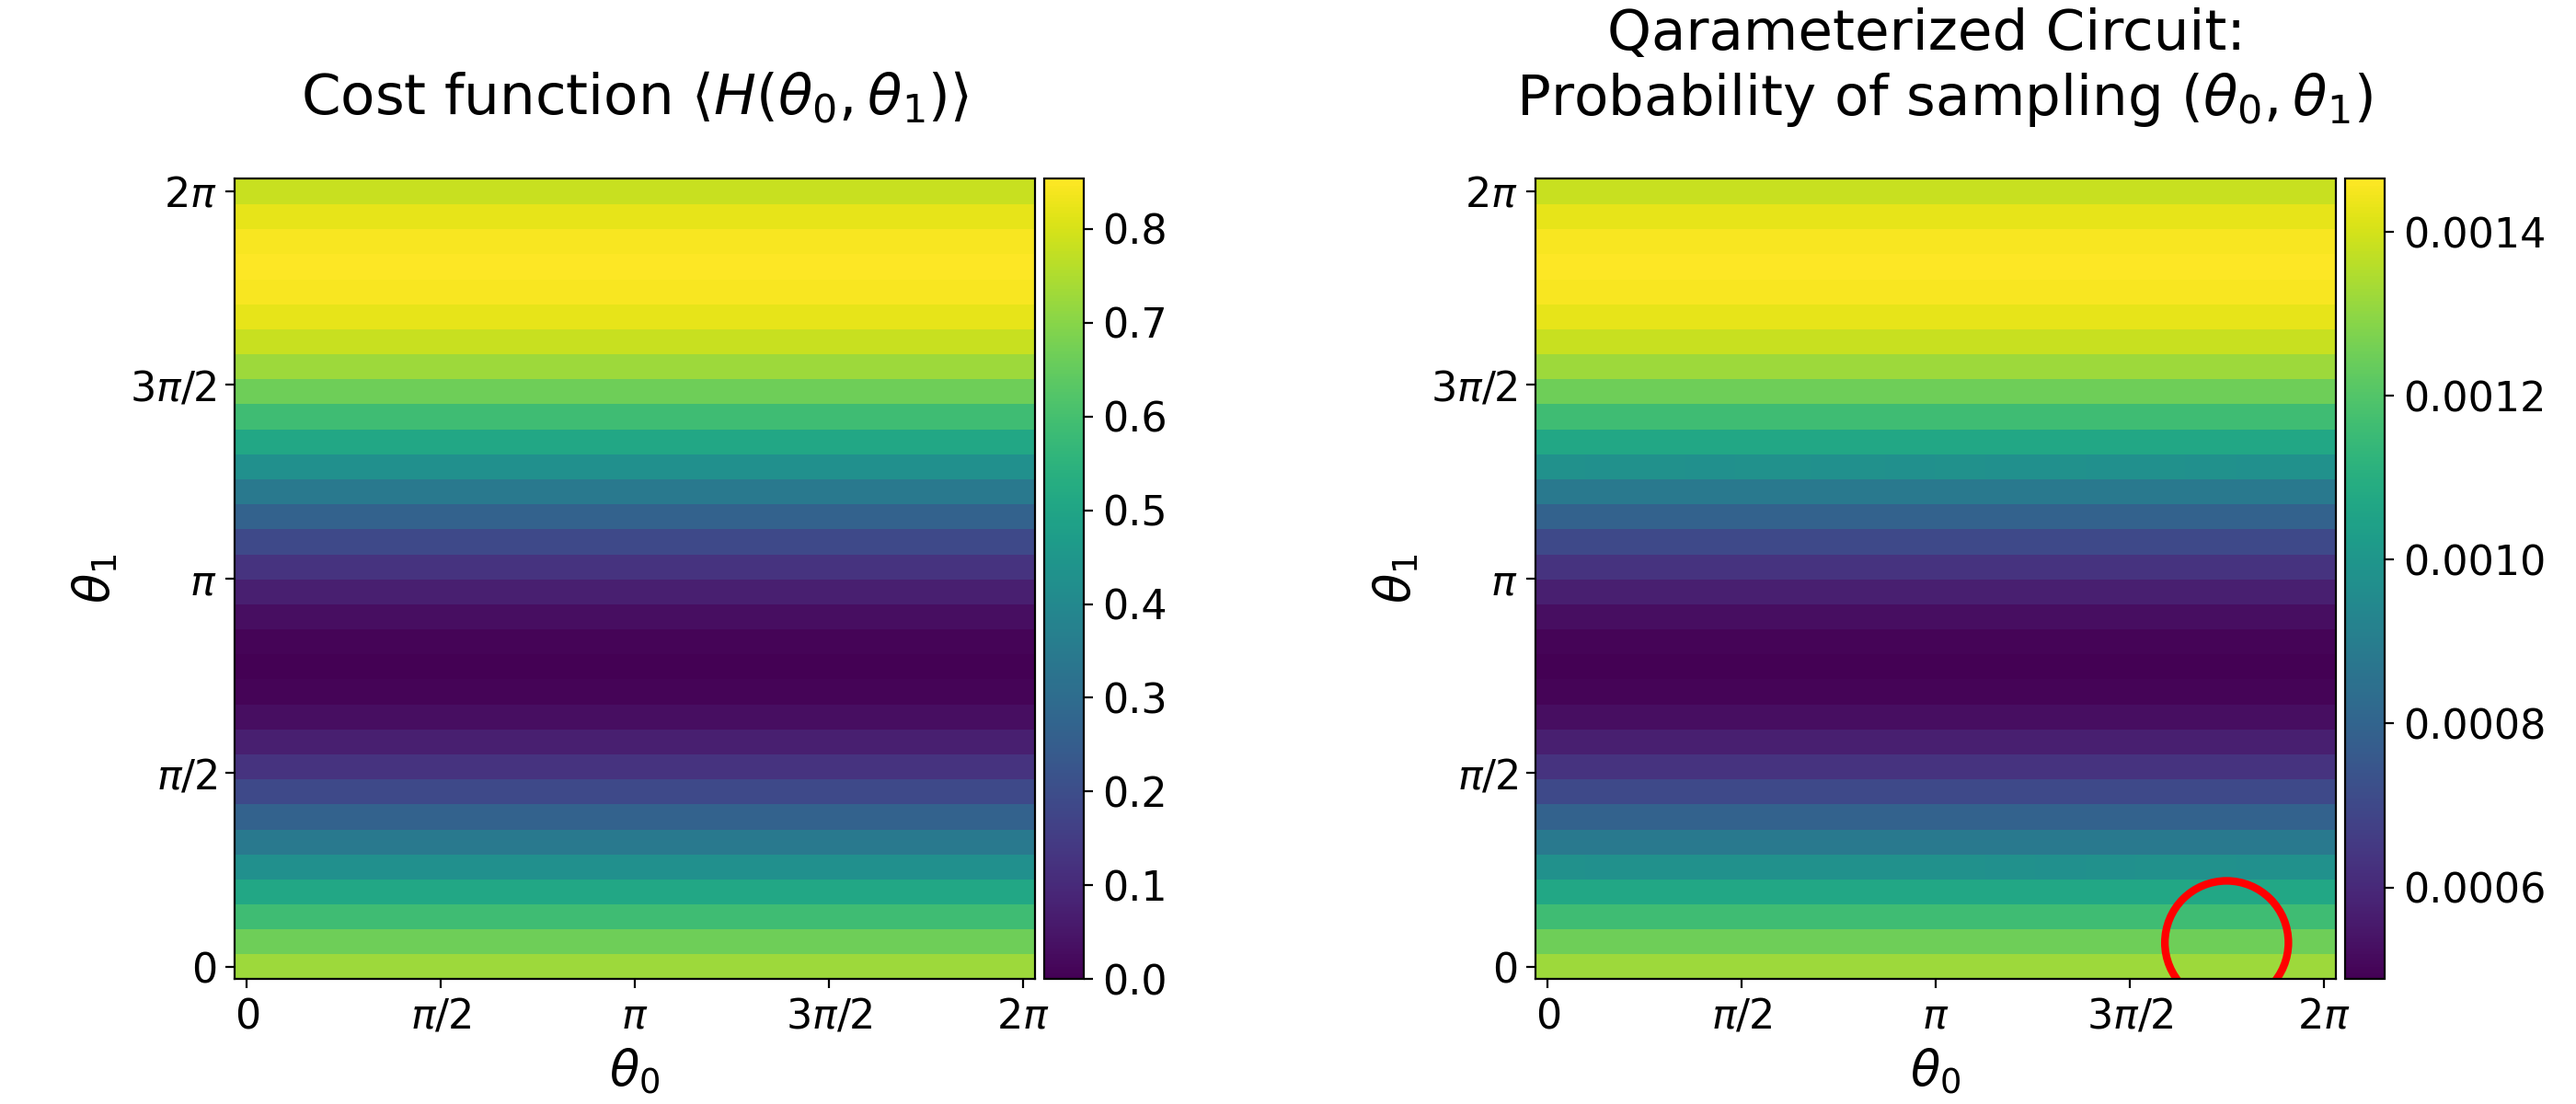
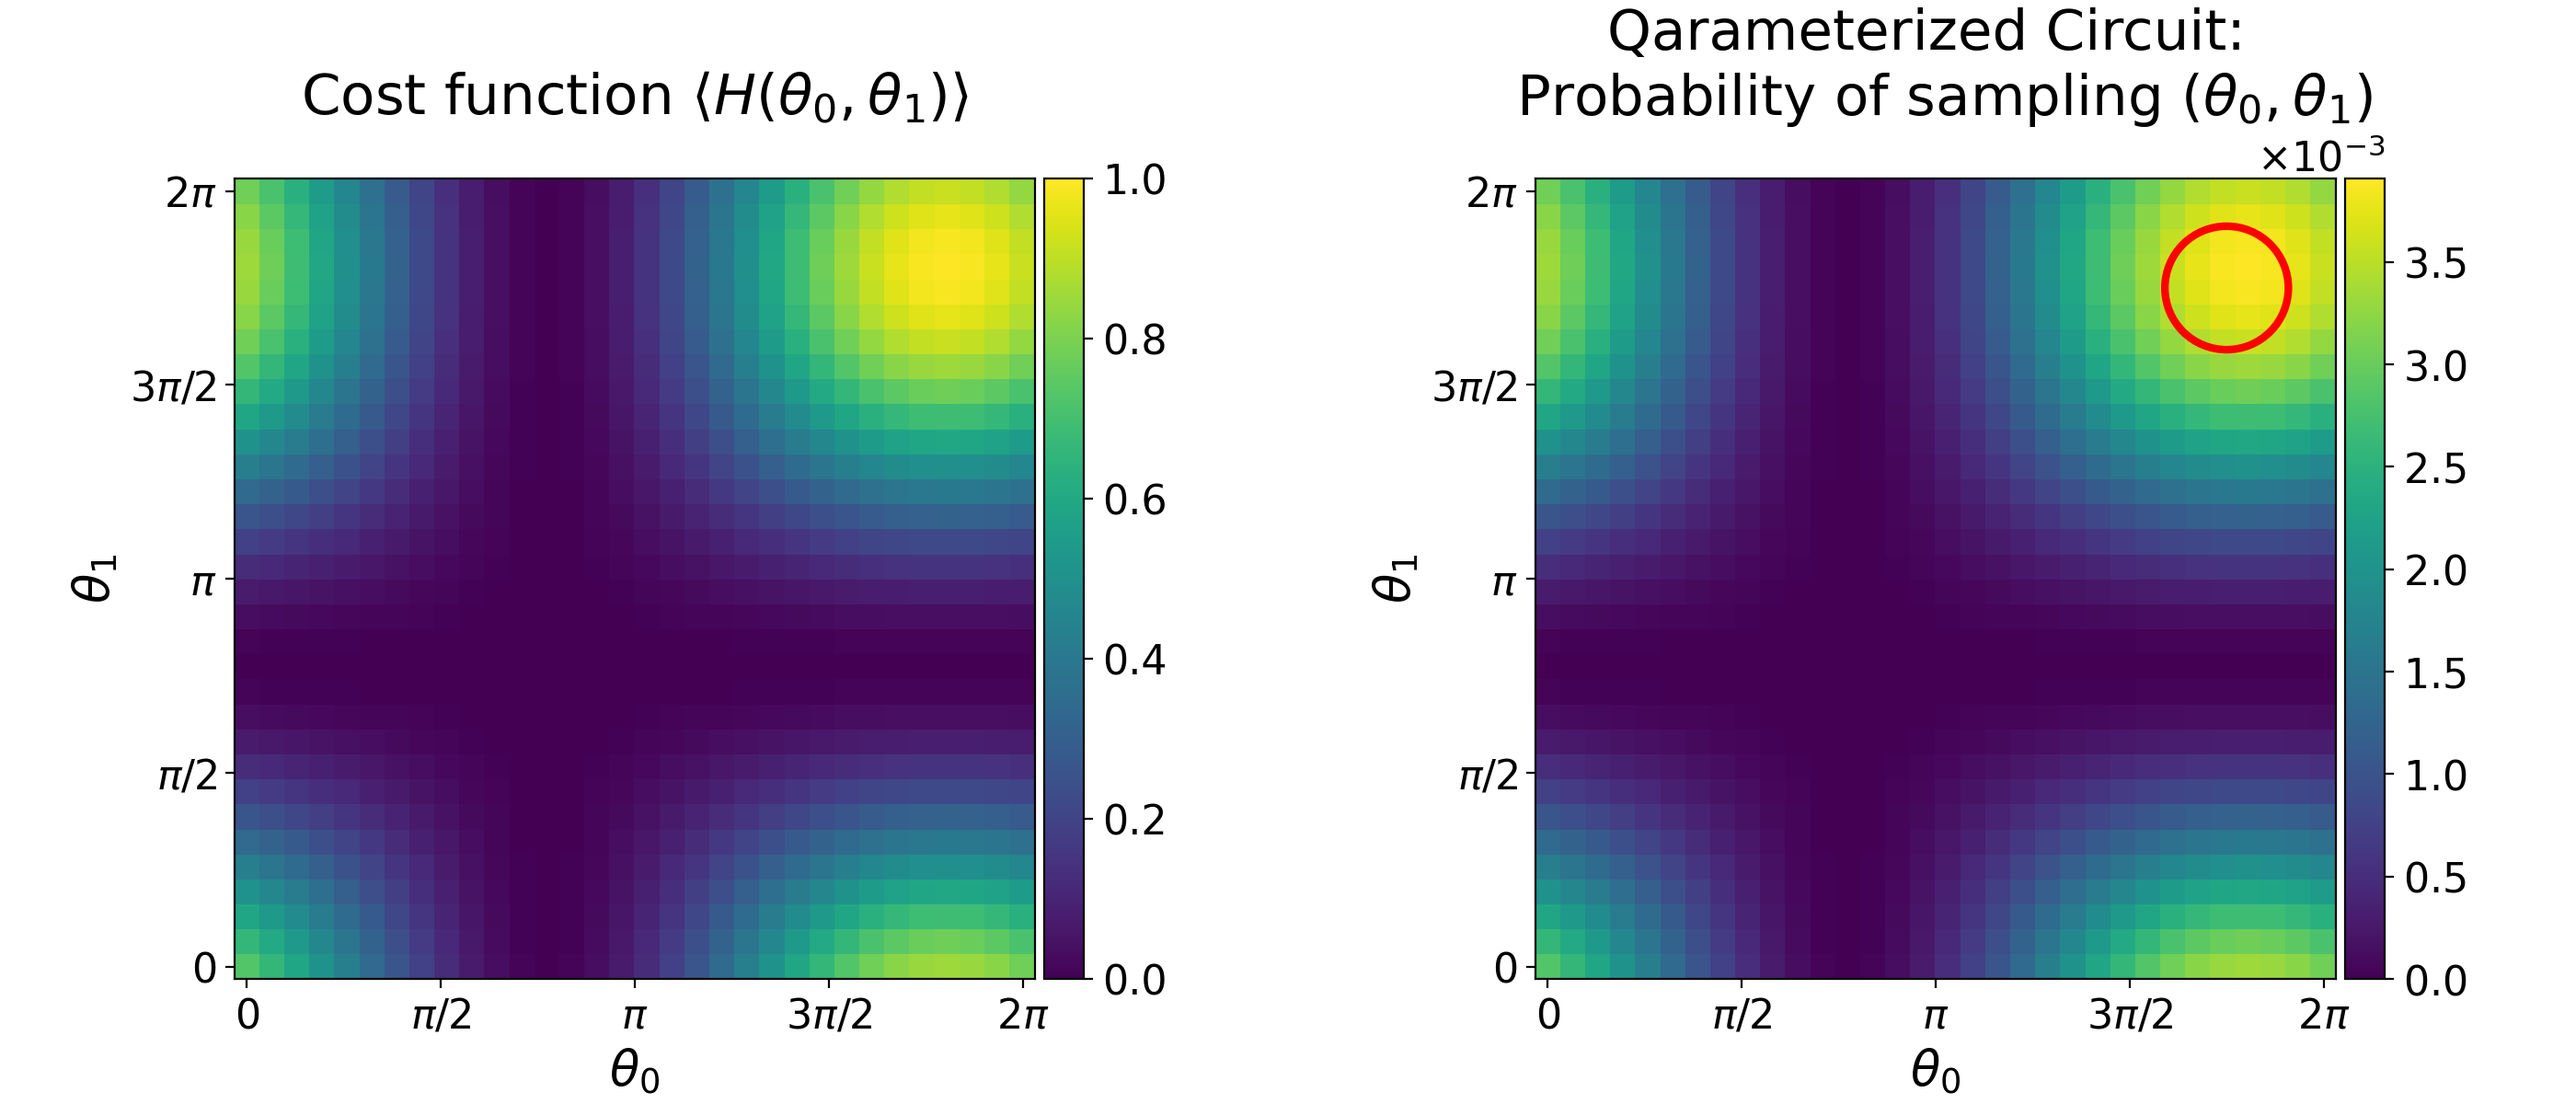
regenerate plot1

diff --git a/make_plot1.py b/make_plot1.py
@@ -2,6 +2,7 @@
 
 import numpy as np
 import matplotlib.pyplot as plt
+from matplotlib import ticker
 from matplotlib.ticker import MultipleLocator, AutoMinorLocator
 from matplotlib.colors import LogNorm
 from mpl_toolkits.axes_grid1 import make_axes_locatable
@@ -12,7 +13,7 @@ plt.style.use('phaselicious_style.mplstyle')
 
 NUM_QUBITS = 2
 PRECISION = 5
-SEED = 12
+SEED = 10
 
 rc = RandomCircuit(num_qubits=NUM_QUBITS, precision_qparams=PRECISION, seed=SEED)
 
@@ -60,9 +61,14 @@ ax0.set_title(r'Cost function $\langle H(\theta_0, \theta_1) \rangle$')
 im1 = ax1.pcolormesh(param_0_binedges, param_1_binedges, probabilities)
 divider = make_axes_locatable(ax1)
 cax1 = divider.append_axes("right", size="5%", pad=0.05)
-cbar1_ticks = np.linspace(roundoff, 1e-1, 6, endpoint=True)
-cbar1 = plt.colorbar(im1, cax=cax1)
-cbar1.ax.set_yticklabels([f"{x:.2e}" for x in cbar1_ticks])
+
+cbar1_ticks = np.linspace(0, probabilities.max(), 6, endpoint=True)
+fmt = ticker.ScalarFormatter(useMathText=True)
+fmt.set_powerlimits((0, 0))
+cbar1 = plt.colorbar(im1, cax=cax1, format=fmt)
+
+# cbar1.ax.set_yticklabels(["{:.1}".format(i) for i in cbar1.get_ticks()])
+# cbar1.ax.set_yticklabels([f"{x:.2e}" for x in cbar1_ticks])
 
 ax1.set_aspect('equal')
 ax1.set_title('Qarameterized Circuit: \n Probability of sampling ' + r'$(\theta_0, \theta_1)$')
@@ -70,7 +76,7 @@ ax1.set_title('Qarameterized Circuit: \n Probability of sampling ' + r'$(\theta_
 
 # Circle overlay
 center_idx = np.unravel_index(score_landscape.argmax(), score_landscape.shape)
-center = (param_0_vals_flat[center_idx[0]], param_1_vals_flat[center_idx[1]])
+center = (param_0_vals_flat[center_idx[1]], param_1_vals_flat[center_idx[0]])
 print(center)
 circ = plt.Circle(center, 0.5, fill=False, color='r', lw=3)
 ax1.add_artist(circ)
